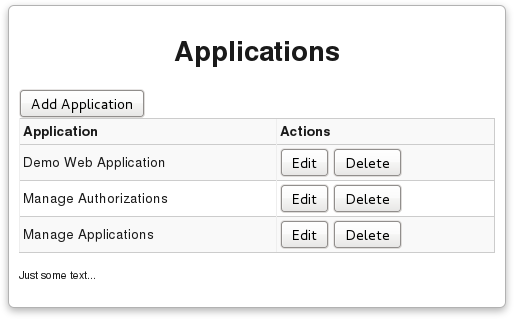
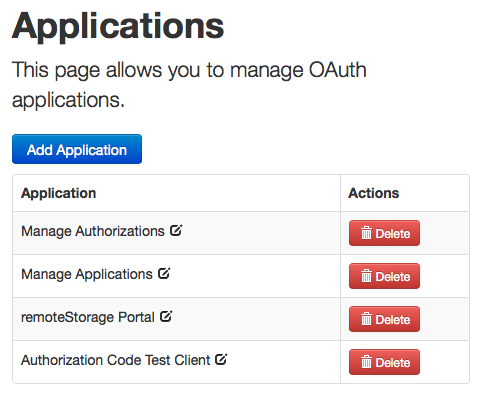
bootstrappify

Changed region(s): [[0.0, 0.0, 0.9959, 0.9875]]

diff --git a/index.html b/index.html
@@ -9,15 +9,17 @@
     <meta name="viewport" content="width=device-width, initial-scale=1.0">
 </head>
 <body>
-    <div id="editApplication"></div>
+
+    <div id="editApplication" class="modal hide fade">
+    </div>
 
     <div class="container">
         <div id="applications">
             <h1>Applications</h1>
 
-            <p class="lead">This page allows you to manage applications.</p>
+            <p class="lead">This page allows you to manage OAuth applications.</p>
 
-            <button id="addApplication" class="btn btn-primary">Add Application</button>
+            <p><button id="addApplication" class="btn btn-primary">Add Application</button></p>
 
             <table id="applicationTable" class="table table-striped table-bordered">
             <thead>
@@ -26,7 +28,7 @@
             	<tbody id="applicationList"></tbody>
             </table>
 
-            <p class="text-info"><span class="label label-info">Info</span> <small>This is the list of all applications registered with this OAuth service.</small></p>
+            <!-- <p class="text-info"><span class="label label-info">Info</span> <small>This is the list of all applications registered with this OAuth service.</small></p> -->
 
         </div> <!-- /applications -->
     </div> <!-- /container -->
@@ -41,69 +43,119 @@
     </script>
    
     <script id="applicationEditTemplate" type="text/x-jsrender">
-        <div id="modal" class="modal">
-          <form class="form editApplication">
+        <div class="modal-header">
+            <a class="close editClose" aria-hidden="true">&times;</a>
+            <h3>Application Registration</h3>
+        </div>
+        <div class="modal-body">
+
+          <form class="form editApplication form-horizontal">
             <fieldset>
-                    <label for="form_id" title="A unique identifier for the OAuth client. If this field is left empty a client identifier will be generated.">Identifier*</label>
-                    <div class="controls">
-                        <input type="text"  id="form_id" name="id" value="{{:id}}" >
+
+                    <div class="control-group">
+                        <label class="control-label" for="form_id"><strong>Identifier</strong></label>
+                        <div class="controls">
+                            {{if id}}
+                                <span id="form_id" class="input-xlarge uneditable-input">{{:id}}</span>
+                                <input type="hidden" name="id" value="{{:id}}">
+                            {{else}}
+                                <input type="text" id="form_id" class="input-xlarge" name="id" placeholder="Unique Application Identifier...">
+                            {{/if}}
+                        </div>
                     </div>
 
-                    <label for="form_name" title="The display name for the OAuth client.">Name*</label>
-                    <div class="controls">
-                        <input type="text" id="form_name" name="name" value="{{:name}}" >
+                    <div class="control-group">
+                        <label class="control-label" for="form_name"><strong>Name</strong></label>
+                        <div class="controls">
+                            <input type="text" id="form_name" class="input-xlarge" name="name" value="{{:name}}" placeholder="Application Name...">
+                        </div>
                     </div>
 
-                    <label for="form_type" title="<strong>Web Application</strong>: A client running on a web server, like 3-legged OAuth 1.0a, requires a secret;<br><strong>User-agent-based Application</strong>: The client runs in the web browser only;<br><strong>Native Application</strong>: The client runs on a mobile device or is a 'rich' desktop application.">Profile*</label>
-                    <div class="controls">
-                        <select id="form_type" name="type">
-                            <option value="web_application" {{if type === 'web_application' }} selected="selected" {{/if}}>Web Application</option>
-                            <option value="user_agent_based_application" {{if type === 'user_agent_based_application' }} selected="selected" {{/if}}>User-agent-based Application</option>
-                            <option value="native_application" {{if type === 'native_application' }} selected="selected" {{/if}}>Native Application</option>
-                        </select>
+
+                    <div class="control-group">
+                        <label class="control-label" for="form_type"><strong>Profile</strong></label>
+                        <div class="controls">
+                            <select id="form_type" class="input-xlarge" name="type">
+                                <option value="web_application" {{if type === 'web_application' }} selected="selected" {{/if}}>Web Application</option>
+                                <option value="user_agent_based_application" {{if type === 'user_agent_based_application' }} selected="selected" {{/if}}>User-agent-based Application</option>
+                                <option value="native_application" {{if type === 'native_application' }} selected="selected" {{/if}}>Native Application</option>
+                            </select>
+                            <span class="help-block">
+                                <dl>
+                                    <dt>Web Application</dt>
+                                    <dd>A client running on a web server, like 3-legged OAuth 1.0a, MUST have a secret.</dd>
+                                    <dt>User-agent-based Application</dt>
+                                    <dd>The client runs in the web browser only.</dd>
+                                    <dt>Native Application</dt>
+                                    <dd>The client runs on a mobile device or is a 'rich' desktop application.</dd>
+                                </dl>
+                            </span>
+                        </div>
                     </div>
 
-                    <label for="form_redirect_uri" title="Redirect URI of the Client for redirecting the browser after authentication and authorization.">Redirect URI*</label>
-                    <div class="controls">
-                        <input type="text" id="form_redirect_uri" name="redirect_uri" value="{{:redirect_uri}}" >
+                    <div class="control-group">
+                        <label class="control-label" for="form_redirect_uri"><strong>Redirect URI</strong></label>
+                        <div class="controls">
+                            <input type="text" id="form_redirect_uri" class="input-xlarge" name="redirect_uri" value="{{:redirect_uri}}" placeholder="Redirect URI...">
+                        </div>
                     </div>
 
-                    <label for="form_secret" title="Secret for the OAuth client (only for the <strong>Web Application</strong> profile). If this field is left empty a secret will be generated.">Secret</label>
-                    <div class="controls">
-                        <input type="text" id="form_secret" name="secret" value="{{:secret}}" >
+                    <div class="control-group">
+                        <label class="control-label" for="form_secret">Secret</label>
+                        <div class="controls">
+                            <input type="text" id="form_secret" class="input-xlarge" name="secret" value="{{:secret}}" placeholder="Secret for Web Application...">
+                        </div>
                     </div>
 
-                    <label for="form_description" title="Detailed information about the OAuth client.">Description</label>
-                    <div class="controls">
-                        <textarea id="form_description" name="description">{{:description}}</textarea>
+                    <div class="control-group">
+                        <label class="control-label" for="form_description">Description</label>
+                        <div class="controls">
+                            <textarea id="form_description" class="input-xlarge" name="description" placeholder="Application Description...">{{:description}}</textarea>
+                        </div>
                     </div>
 
-                    <label for="form_icon" title="Full URL point to the icon for this service. This icon should have size 128x128 pixels.">Icon</label>
-                    <div class="controls">
-                        <input type="text" id="form_icon" name="icon" value="{{:icon}}" >
+                    <div class="control-group">
+                        <label class="control-label" for="form_icon">Icon</label>
+                        <div class="controls">
+                            <input type="text" id="form_icon" class="input-xlarge" name="icon" value="{{:icon}}" placeholder="URL to 128x128 Application Icon...">
+                        </div>
                     </div>
 
-                    <label for="form_allowed_scope" title="The scope (space separated) the application is allowed to request">Allowed Scope</label>
-                    <div class="controls">
-                        <input type="text" id="form_allowed_scope" name="allowed_scope" value="{{:allowed_scope}}" >
+                    <div class="control-group">
+                        <label class="control-label" for="form_allowed_scope">Allowed Scope</label>
+                        <div class="controls">
+                            <input type="text" id="form_allowed_scope" class="input-xlarge" name="allowed_scope" value="{{:allowed_scope}}" placeholder="Space Separated Scopes...">
+                        </div>
                     </div>
 
+                    <div class="control-group">
+                        <label class="control-label" for="form_contact_email" title="">Contact</label>
+                        <div class="controls">
+                            <input type="text" id="form_contact_email" class="input-xlarge" name="contact_email" value="{{:contact_email}}" placeholder="Email Address...">
+                        </div>
+                    </div>
     <!--        <p><strong>* required</strong></p> -->
 
 
-          <button data-client-id="{{:id}}" class="btn btn-primary editSave">Save</button>
-          <button data-client-id="{{:id}}" class="btn editClose">Close</button>
+         <!-- <button data-client-id="{{:id}}" class="btn btn-primary editSave">Save</button>
+          <button data-client-id="{{:id}}" class="btn editClose">Close</button> -->
 
       </fieldset>
 
           </form>
-    </div> <!-- /modal -->
+
+        </div>
+        <div class="modal-footer">
+            <a href="#" class="btn editClose">Close</a>
+            <a href="#" class="btn btn-primary editSave" data-client-id="{{:id}}">Save changes</a>
+        </div>
+
     </script>
 
     <script src="ext/js/jquery.js"></script>
     <script src="ext/js/jsrender.js"></script>
     <script src="ext/js/jso.js"></script>
-<!--    <script src="ext/bootstrap/js/bootstrap.min.js"></script> -->
+    <script src="ext/bootstrap/js/bootstrap.min.js"></script>
     <script src="js/manage.js"></script>
 
   </body>

diff --git a/js/manage.js b/js/manage.js
@@ -35,7 +35,6 @@ $(document).ready(function () {
 
     function addApplicationListHandlers() {
         $("a.editApplication").click(function () {
-//        $("button.editApplication").click(function () {
             editApplication($(this).data('clientId'));
         });
         $("button.deleteApplication").click(function () {
@@ -52,7 +51,7 @@ $(document).ready(function () {
             jso_scopes: apiScope,
             jso_allowia: true,
             type: "DELETE",
-            success: function (data) {
+            success: function () {
                 renderApplicationList();
             },
             error: function (xhr) {
@@ -85,7 +84,7 @@ $(document).ready(function () {
             $("#editApplication").html($("#applicationEditTemplate").render(data));
             addEditApplicationHandlers();
         }
-        $("#editApplication").show();
+        $("#editApplication").modal();
     }
 
     function parseForm(formData) {
@@ -97,10 +96,10 @@ $(document).ready(function () {
     }
 
     function addEditApplicationHandlers() {
-        $("#editApplication button.editClose").click(function () {
-            $("#editApplication").hide();
+        $("#editApplication a.editClose").click(function () {
+            $("#editApplication").modal('hide');
         });
-        $("#editApplication button.editSave").click(function () {
+        $("#editApplication a.editSave").click(function () {
             // FIXME: not really a nice way to fetch form data...
             var clientData = parseForm($('form.editApplication'));
             if ($(this).data('clientId')) {
@@ -120,10 +119,10 @@ $(document).ready(function () {
             jso_scopes: apiScope,
             jso_allowia: true,
             type: "PUT",
-            dataType: 'json',
+            contentType: 'application/json',
             data: clientData,
-            success: function (data) {
-                $("#editApplication").hide();
+            success: function () {
+                $("#editApplication").modal('hide');
                 renderApplicationList();
             },
             error: function (xhr) {
@@ -140,10 +139,10 @@ $(document).ready(function () {
             jso_scopes: apiScope,
             jso_allowia: true,
             type: "POST",
-            dataType: 'json',
+            contentType: 'application/json',
             data: clientData,
-            success: function (data) {
-                $("#editApplication").hide();
+            success: function () {
+                $("#editApplication").modal('hide');
                 renderApplicationList();
             },
             error: function (xhr) {

diff --git a/README.md b/README.md
@@ -5,7 +5,13 @@
 This application makes it possible to manage applications with the `php-oauth` 
 service through its API.
 
+## Screenshots
+
 ![html-manage-applications](https://github.com/fkooman/html-manage-applications/raw/master/docs/html-manage-applications-screenshot.png)
+
+![html-manage-applications-new-app-1](https://github.com/fkooman/html-manage-applications/raw/master/docs/html-manage-applications-new-app-screenshot-1.png)
+
+![html-manage-applications-new-app-2](https://github.com/fkooman/html-manage-applications/raw/master/docs/html-manage-applications-new-app-screenshot-2.png)
 
 ## Installation
 
